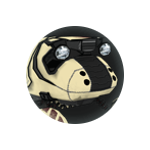
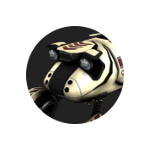
Updated rover character portrait

Changed region(s): [[0.16, 0.16, 0.8267, 0.8267], [0.3467, 0.1867, 0.4267, 0.2133]]

diff --git a/source/marsGameSound.js b/source/marsGameSound.js
@@ -45,7 +45,7 @@ this.startSubtitle = function( instanceHandle ) {
             character = character.slice( 1, character.length - 1 );
             var imagePath = "";
             if ( character === "ROVER" ) {
-                var imagePath = "assets/images/hud/comms_rover.png";
+                var imagePath = "assets/images/hud/portrait_rover_communicator.png";
             } else if ( character === "MC" ) {
                 var imagePath = "assets/images/hud/comms_missioncontrol.png";
             }

diff --git a/source/hud/comms.js b/source/hud/comms.js
@@ -13,7 +13,6 @@
 // limitations under the License.
 
 this.draw = function( context, position ) {
-    // TODO: Use circular character images.
     if ( this.characterImage ) {
         context.save();
         var opening = this.height * this.interval;
